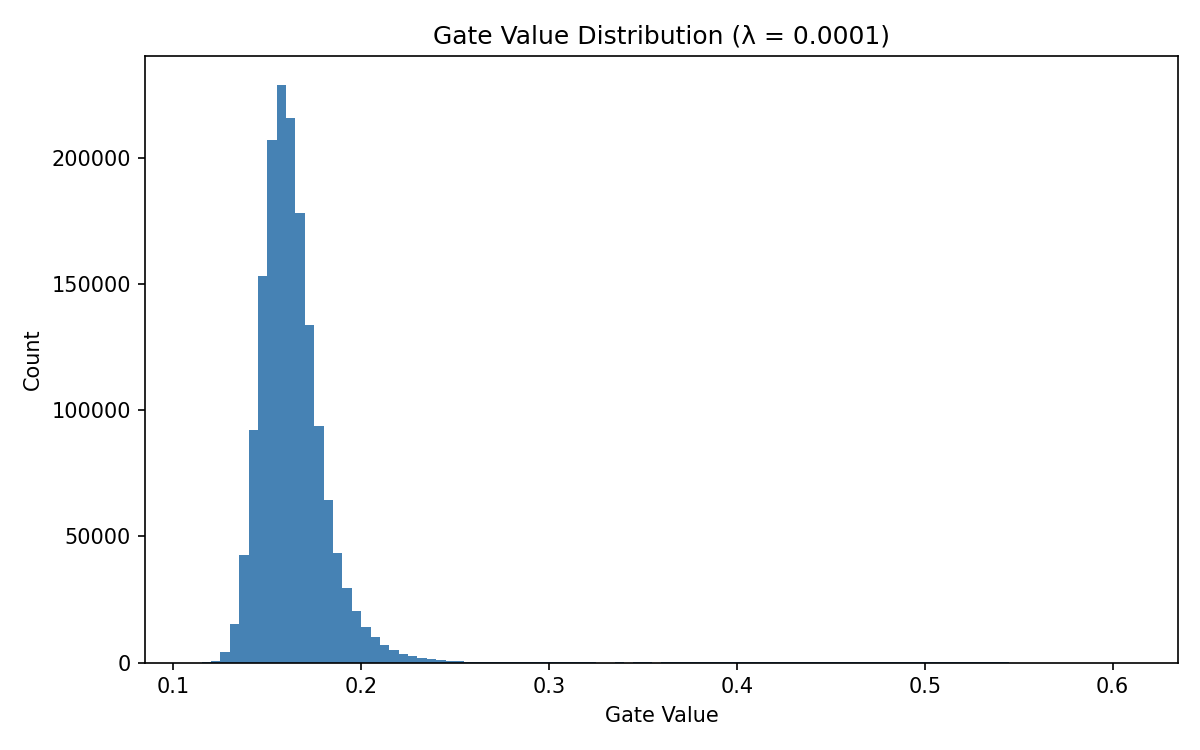
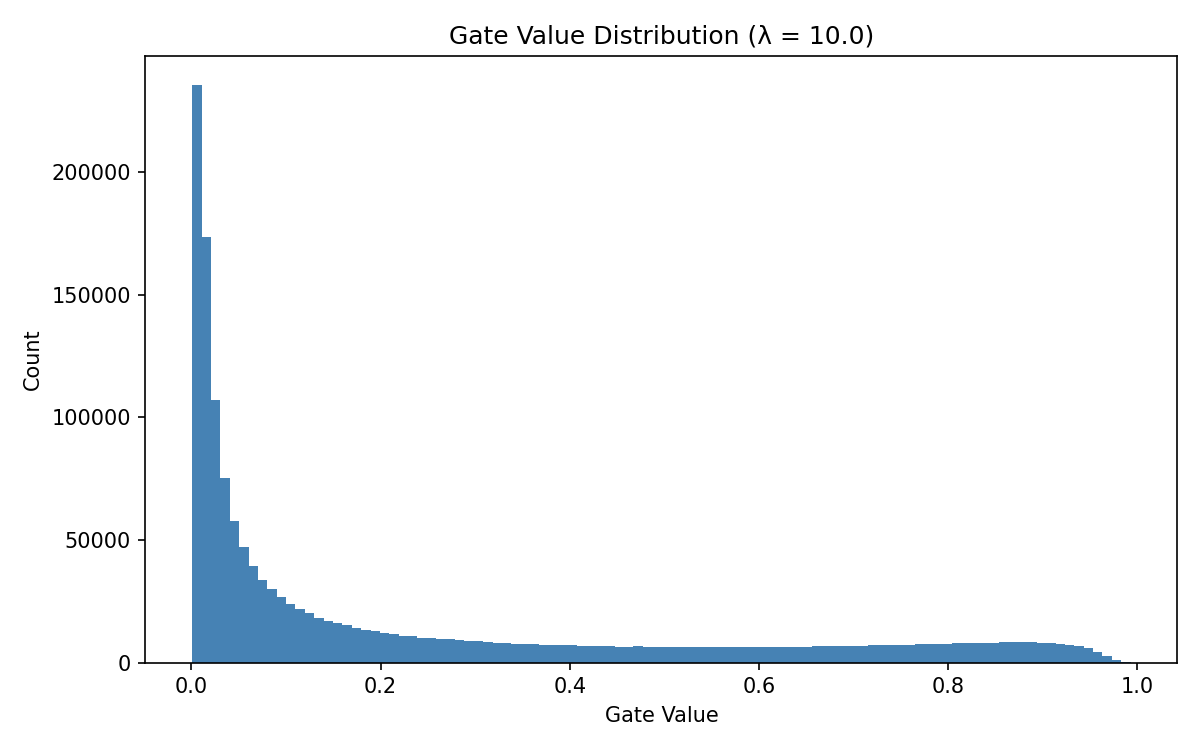
v8 - updated readme image and graph image

diff --git a/Readme.md b/Readme.md
@@ -17,6 +17,7 @@ The network learns to keep gates open only for useful weights. Useless weights g
 | 0.0    | 51.91       | 0.00         |
 | 1.0    | 52.27       | 1.92         |
 | 5.0    | 53.12       | 28.48        |
+| 10.0   | 53.07       | 52.31        |
 
 ## Analysis
 
@@ -24,19 +25,23 @@ With lambda = 0, there is no sparsity penalty. All gates stay open. No pruning h
 
 As lambda increases, the penalty pushes more gates toward 0. Sparsity goes up.
 
-Accuracy stays roughly the same across all three runs. This means the pruned weights were not useful. Removing them did not hurt the model.
+At lambda = 10.0, over half the weights are pruned. Accuracy is still 53.07%, almost identical to the baseline.
+
+This is the most important result. The network removed 52% of its weights and lost almost no accuracy. Those weights were not contributing anything useful.
 
 This shows the trade-off: higher lambda gives more pruning with little accuracy cost.
 
 ## Gate Distribution Plot
 
-The plot shows all gate values from the best model (lambda = 5.0).
+![Gate Value Distribution](gate_distribution.png)
 
-There is a spike near 0. These are the pruned weights — their gates were pushed closed by the sparsity loss.
+The plot shows gate values from the best model at lambda = 10.0.
 
-Some gates have high values, close to 1. These are the weights the network decided to keep.
+The large spike near 0 shows that most gates were pushed close to zero by the sparsity loss. These weights are effectively pruned.
 
-The two groups show the model learned to separate useful weights from useless ones.
+The distribution has a long tail toward 1.0. A small number of gates stayed open — these are the weights the network decided to keep.
+
+There is no clean two-cluster split. Most gates are near 0, but some are spread across the full range. This is expected with a strong lambda — the penalty is aggressive enough to close most gates but the network still keeps some partially active connections.
 
 ## Conclusion
 
@@ -44,4 +49,4 @@ The model successfully prunes itself during training. No manual pruning was need
 
 Higher lambda means more pruning. Lower lambda means the network stays dense.
 
-Accuracy does not drop much even with 28% sparsity. The method works.
+At lambda = 10.0, the model reaches 52% sparsity with no meaningful accuracy drop. The method works.
